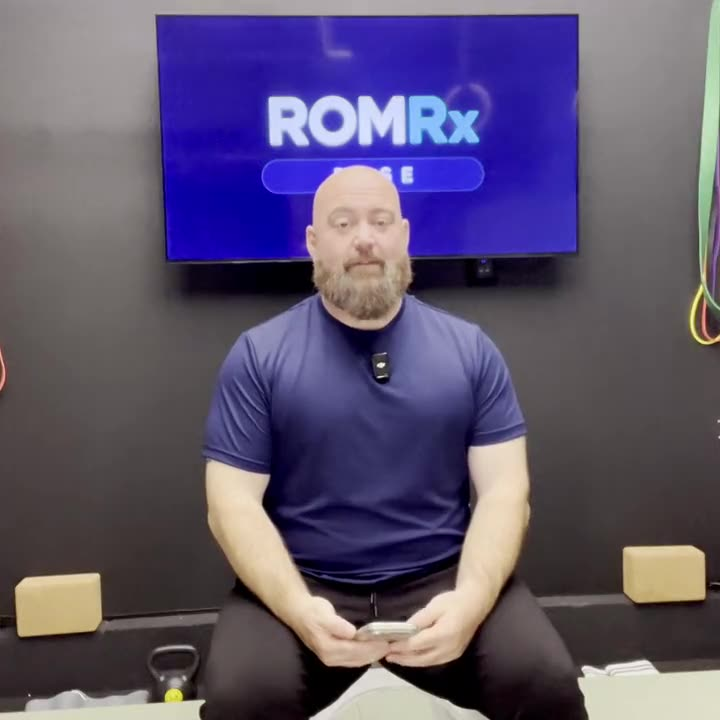
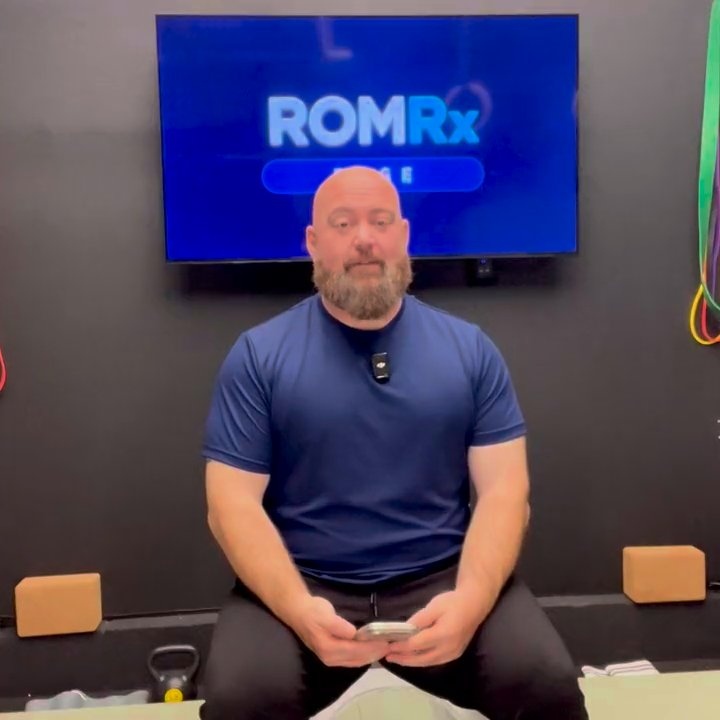
fix(videos): tone-mapped sRGB posters (HLG HDR clips showed a flat, off-colour first image on iPhone Safari); scripts/make-video-posters.sh; sRGB-tag test. LOCAL ONLY, not pushed.

diff --git a/app/src/lib/stepVideoFiles.test.ts b/app/src/lib/stepVideoFiles.test.ts
@@ -1,6 +1,6 @@
 /** Assessment video files (Oct 21 2026): every slot has a file and poster except hip_flex and shoulder_er (reshoot list, slots stay hidden). */
 import { describe, expect, it } from 'vitest'
-import { existsSync, statSync } from 'node:fs'
+import { existsSync, readFileSync, statSync } from 'node:fs'
 import { resolve } from 'node:path'
 import { VIDEO_STEP_IDS } from './stepVideo'
 
@@ -22,5 +22,14 @@ describe('assessment video files', () => {
       })
     }
   }
+  it('posters are sRGB-tagged JPEGs (tone-mapped from the HLG clips, scripts/make-video-posters.sh)', () => {
+    for (const id of VIDEO_STEP_IDS) {
+      if (PENDING.includes(id)) continue
+      const b = readFileSync(`${dir}/${id}.jpg`)
+      expect(b.subarray(0, 2).toString('hex')).toBe('ffd8')
+      expect(b.includes(Buffer.from('ICC_PROFILE'))).toBe(true)
+      expect(b.includes(Buffer.from('mntrRGB'))).toBe(true)
+    }
+  })
   it('no lumbar video', () => { expect(existsSync(`${dir}/lumbar.mp4`)).toBe(false) })
 })

diff --git a/app/src/components/StepVideo.tsx b/app/src/components/StepVideo.tsx
@@ -4,6 +4,8 @@ import { stepVideo } from '../lib/stepVideo'
 /**
  * Demo video for one step. Hidden until the poster loads (so a step with no file shows nothing), and
  * hidden again if the video fails. preload="none": nothing downloads until the user taps play.
+ * Posters must be tone-mapped sRGB JPEGs: the clips are iPhone HLG HDR, and an untouched ffmpeg frame grab looks
+ * washed and off-colour next to the video (scripts/make-video-posters.sh).
  * Frame: full card width, 1:1 square (720x720 source, Grant Oct 21 2026).
  */
 export function StepVideo({ stepId, title }: { stepId: string; title: string }) {
